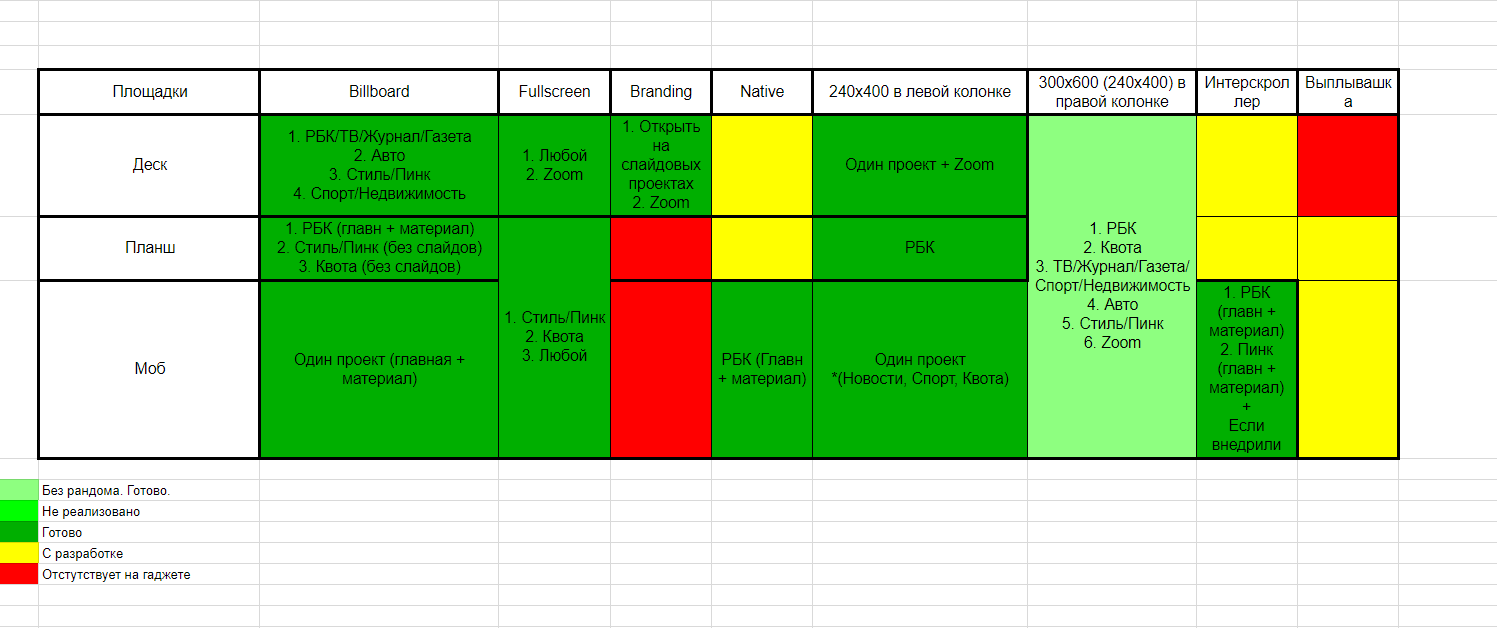
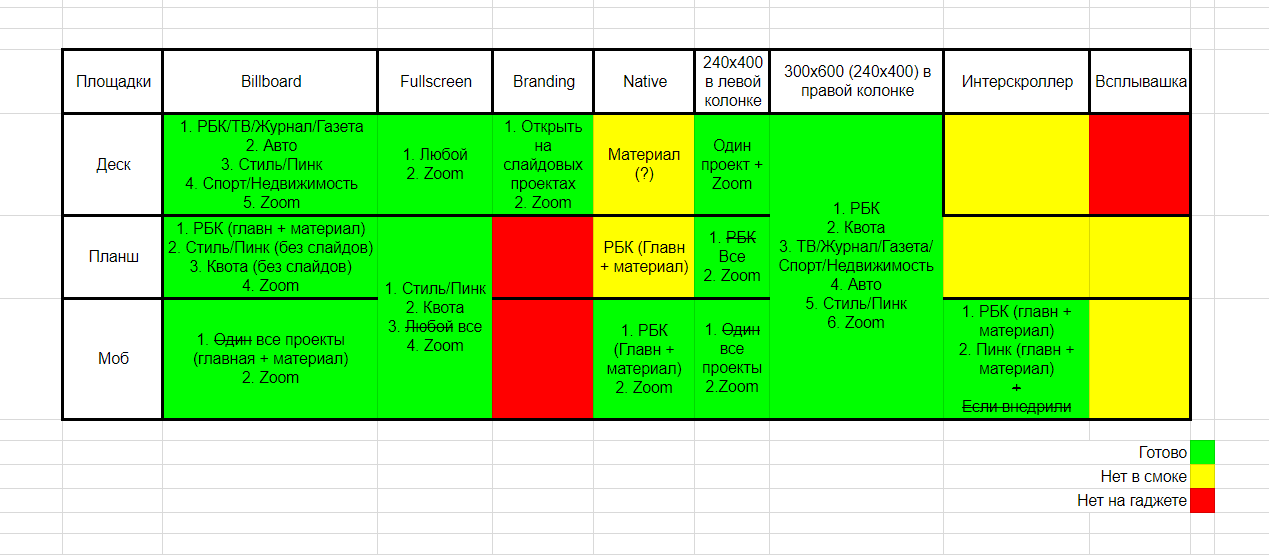
Удаление рандома и добавления проекта Zoom для всех выводов (доп.) Доработка проекта до версии на схеме ProjectScheme (new)

diff --git a/src/sample/PreviewCreater.java b/src/sample/PreviewCreater.java
@@ -3,8 +3,6 @@ package sample;
 import java.lang.*;
 import java.util.Random;
 
-import static sample.ConsoleColors.RED;
-import static sample.ConsoleColors.RESET;
 import static sample.URLs.*;
 
 class PreviewCreater {
@@ -42,6 +40,35 @@ class PreviewCreater {
         }
     }*/
 
+    private static String allSlideLinks(String prw) {
+        StringBuilder s = new StringBuilder();
+        /*if (false)
+            for (String aLine : line) {
+                if (!aLine.contains(NEWSPAPER) && !aLine.contains(MAGAZINE))
+                    s.append(aLine).append(prw).append('\n');
+            }*/
+        //else {
+        for (String aLine1 : line) {
+            if (!aLine1.contains(NEWSPAPER) && !aLine1.contains(MAGAZINE) && !aLine1.contains(ZOOM))
+                s.append(aLine1).append(prw).append('\n');
+        }
+        s.append('\n');
+        for (String aLine : line)
+            if (aLine.contains(ZOOM))
+                s.append(aLine).append(prw).append('\n');
+        //}
+        return s.toString();
+    }
+
+    private static String onlyZoom(String prw) {
+        StringBuilder s = new StringBuilder();
+        for (String aLine : line)
+            if (aLine.contains(ZOOM))
+                s.append(aLine).append(prw).append('\n');
+        return s.toString();
+    }
+
+    //Без рандома
     private static String onlyMob(String prw, String bannerType)
     {
         String s;
@@ -53,14 +80,11 @@ class PreviewCreater {
         switch (bannerType) {
             case "Billboard":
             case "240x400_left":
-                int p = myRand(line); //рандомная площадка (-кроме Zoom)
-                if (p % 2 == 1) { s = line[p - 1] + prw + "\n" + line[p] + prw + "\n"; }
-                else { s = line[p] + prw + "\n" + line[p + 1] + prw + "\n"; }
-                return ("МОБ:") + "\n" + s;
+                return ("МОБ:") + "\n" + allSlideLinks(prw);
 
             case "Native":
                 for (String aLine : line) {
-                    if (aLine.contains(NEWS)) {
+                    if (aLine.contains(NEWS) && !(aLine.contains(MAGAZINE) || aLine.contains(NEWSPAPER)))  {
                         mass[k] = aLine;
                         k++;
                     }
@@ -68,25 +92,40 @@ class PreviewCreater {
                 break;
             case "InterScroll":
                 for (String aLine : line) {
-                    if (aLine.contains(NEWS) || aLine.contains(PINK)) /*+ если что-то внедрят*/
+                    if (aLine.contains(NEWS) && !(aLine.contains(MAGAZINE) || aLine.contains(NEWSPAPER))) /*+ если что-то внедрят*/
                     {
                         mass[k] = aLine;
                         k++;
                     }
                 }
+                k++;
+                for (String aLine : line) {
+                    if (aLine.contains(PINK)) /*+ если что-то внедрят*/
+                    {
+                        mass[k] = aLine;
+                        k++;
+                    }
+                }
+                k++;
                 break;
             case ("Branding"):
                 return "На МОБ нет брендирования!";
             case "Oplya":
                 return "Error 404";
+            case "Fullscreen":
+                return Full(prw, bannerType);
         }
         //Общий вывод для 1 устройства
         for (int i = 0; i < k; i++) {
-            str.append(mass[i]).append(prw).append('\n');
+            if (mass[i] != null)
+                str.append(mass[i]).append(prw).append('\n');
+            else
+                str.append('\n');
         }
         return ("МОБ:") + "\n" + str.toString();
     }
 
+    //Без рандома
     private static String onlyTab(String prw, String bannerType)
     {
         String mass[] = new String[line.length];
@@ -97,8 +136,21 @@ class PreviewCreater {
             //Биллборд
             case ("Billboard"):
                 for (String aLine : line) {
-                    if ((aLine.contains(NEWS) || aLine.contentEquals(STYLE) ||
-                            aLine.contentEquals(PINK) || aLine.contentEquals(QUOTE)) && !(aLine.contains(MAGAZINE) || aLine.contains(NEWSPAPER))) {
+                    if (aLine.contains(NEWS) && !(aLine.contains(MAGAZINE) || aLine.contains(NEWSPAPER))) {
+                        mass[k] = aLine;
+                        k++;
+                    }
+                }
+                k++;
+                for (String aLine : line) {
+                    if (aLine.contains(STYLE) || aLine.contains(PINK)) {
+                        mass[k] = aLine;
+                        k++;
+                    }
+                }
+                k++;
+                for (String aLine : line) {
+                    if (aLine.contains(QUOTE)) {
                         mass[k] = aLine;
                         k++;
                     }
@@ -106,9 +158,9 @@ class PreviewCreater {
                 break;
                 // Баннер 240х400 слева (или на моб в ленте новостей)
             case ("240x400_left"):
-                for (String aLine2 : line) {
-                    if (aLine2.contains(NEWS)) {
-                        mass[k] = aLine2;
+                for (String aLine : line) {
+                    if (aLine.contains(NEWS) && !(aLine.contains(MAGAZINE) || aLine.contains(NEWSPAPER))) {
+                        mass[k] = aLine;
                         k++;
                     }
                 }
@@ -124,14 +176,19 @@ class PreviewCreater {
             case "Fullscreen":
                 return Full(prw, bannerType);
         }
+
         //Общий вывод для 1 устройства
         for (int i = 0; i < k; i++) {
-            str.append(mass[i]).append(prw).append('\n');
+            if (mass[i] != null)
+                str.append(mass[i]).append(prw).append('\n');
+            else
+                str.append('\n');
         }
-        return ("ПЛАНШ:") + "\n" + str.toString();
+        return ("ПЛАНШ:") + "\n" + str.toString() + '\n' + onlyZoom(prw);
 
     }
 
+    //Без рандома
     private static String onlyPC(String prw, String bannerType)
     {
         String mass[] = new String[line.length];
@@ -142,76 +199,46 @@ class PreviewCreater {
         switch (bannerType) {
             case "Billboard":
                 for (String aLine : line) {
-                    if (aLine.contains(NEWS) || aLine.contains(TV) || aLine.contains(MAGAZINE) || aLine.contains(NEWSPAPER)) {
+                    if (aLine.contains(NEWS) || aLine.contains(TV)){
                         mass[k] = aLine;
                         ++k;
                     }
                 }
-                int p = myRand(mass);
-                if (p % 2 == 1) {
-                    mass[0] = mass[p - 1];
-                    mass[1] = mass[p];
-                    k = 2;
-                }   //Значения 2 и т.д. будут перезаписываться
-                else {
-                    mass[0] = mass[p];
-                    mass[1] = mass[p + 1];
-                    k = 2;
-                }    //Значения 2 и т.д. будут перезаписываться
-
+                k++;
                 for (String aLine : line) {
                     if (aLine.contains(AUTO)) {
                         mass[k] = aLine;
                         k++;
                     }
                 }
-
+                k++;
                 for (String aLine : line) {
                     if (aLine.contains(STYLE) || aLine.contains(PINK)) {
                         mass[k] = aLine;
                         k++;
                     }
                 }
-                p = myRand(4, k);
-                if (p % 2 == 1) {
-                    mass[4] = mass[p - 1];
-                    mass[5] = mass[p];
-                    k = 6;
-                }   //Значения 6 и т.д. будут перезаписываться
-                else {
-                    mass[4] = mass[p];
-                    mass[5] = mass[p + 1];
-                    k = 6;
-                }    //Значения 6 и т.д. будут перезаписываться
-
+                k++;
                 for (String aLine : line) {
                     if (aLine.contains(SPORT) || aLine.contains(REALTY)) {
                         mass[k] = aLine;
                         k++;
                     }
                 }
-                p = myRand(6, k);
-                if (p % 2 == 1) {
-                    mass[6] = mass[p - 1];
-                    mass[7] = mass[p];
-                } else {
-                    mass[6] = mass[p];
-                    mass[7] = mass[p + 1];
-                }
-                k -= 2;
                 break;
 
             //Фуллскрин
             case "Fullscreen":
             case "240x400_left":
             case "Branding":
+                /*int p=0;
                 String s;
                 p = myRand(line); //рандомная площадка (-кроме Zoom)
                 if (p % 2 == 1) {
                     s =  line[p - 1] + prw + "\n" + line[p] + prw + "\n"; }
                 else { s = line[p] + prw + "\n" + line[p + 1] + prw + "\n"; }
-                s += line[line.length - 2] + prw + '\n' + line[line.length-1] + prw + "\n";
-                return ("ДЕСК:") + "\n" +  s;
+                s += line[line.length - 2] + prw + '\n' + line[line.length-1] + prw + "\n";*/
+                return ("ДЕСК:") + "\n" + allSlideLinks(prw);
             case "Native":
                 return "ДЕСК" + '\n' + "Error 404" + '\n';
             case "Right":
@@ -223,9 +250,12 @@ class PreviewCreater {
 
         //Общий вывод для 1 устройства
         for (int i = 0; i < k; i++) {
-            str.append(mass[i]).append(prw).append('\n');
+            if (mass[i] != null)
+                str.append(mass[i]).append(prw).append('\n');
+            else
+                str.append('\n');
         }
-        return ("ДЕСК:") + "\n" + str.toString();
+        return ("ДЕСК:") + "\n" + str.toString() + '\n' + onlyZoom(prw);
 
     }
 
@@ -312,11 +342,6 @@ class PreviewCreater {
                     k++;
                 }
             }
-            k++;
-
-            int p = myRand(line); //рандомная площадка (-кроме Zoom)
-            if (p % 2 == 1) { mass[k] = line[p - 1]; mass[k+1] = line[p]; k+=2; }
-            else { mass[k] = line[p]; mass[k+1] = line[p + 1]; k+=2; }
 
             //Общий вывод для 1 устройства
             for (int i = 0; i < k; i++) {
@@ -325,7 +350,7 @@ class PreviewCreater {
                 else
                     str.append('\n');
             }
-            return ("ПЛАНШ, МОБ:") + "\n" + str.toString();
+            return ("ПЛАНШ, МОБ:") + "\n" + str.toString() + '\n' + allSlideLinks(prw);
         }
         return prw;
     }
@@ -355,6 +380,7 @@ class PreviewCreater {
                     case ("Fullscreen"):
                         return onlyPC(prw, bannerType) + '\n' + Full(prw,bannerType);
                     case "Native":
+                        return onlyMob(prw, bannerType);
                     case "Oplya":
                         return "Error 404";
                 }

diff --git a/src/sample/Controller.java b/src/sample/Controller.java
@@ -3,9 +3,9 @@ package sample;
 import java.net.URL;
 import java.util.ResourceBundle;
 
-import com.sun.javafx.scene.SceneHelper;
+/* import com.sun.javafx.scene.SceneHelper; */
 import javafx.fxml.FXML;
-import javafx.scene.Scene;
+/* import javafx.scene.Scene; */
 import javafx.scene.control.Button;
 import javafx.scene.control.CheckBox;
 import javafx.scene.control.TextArea;
